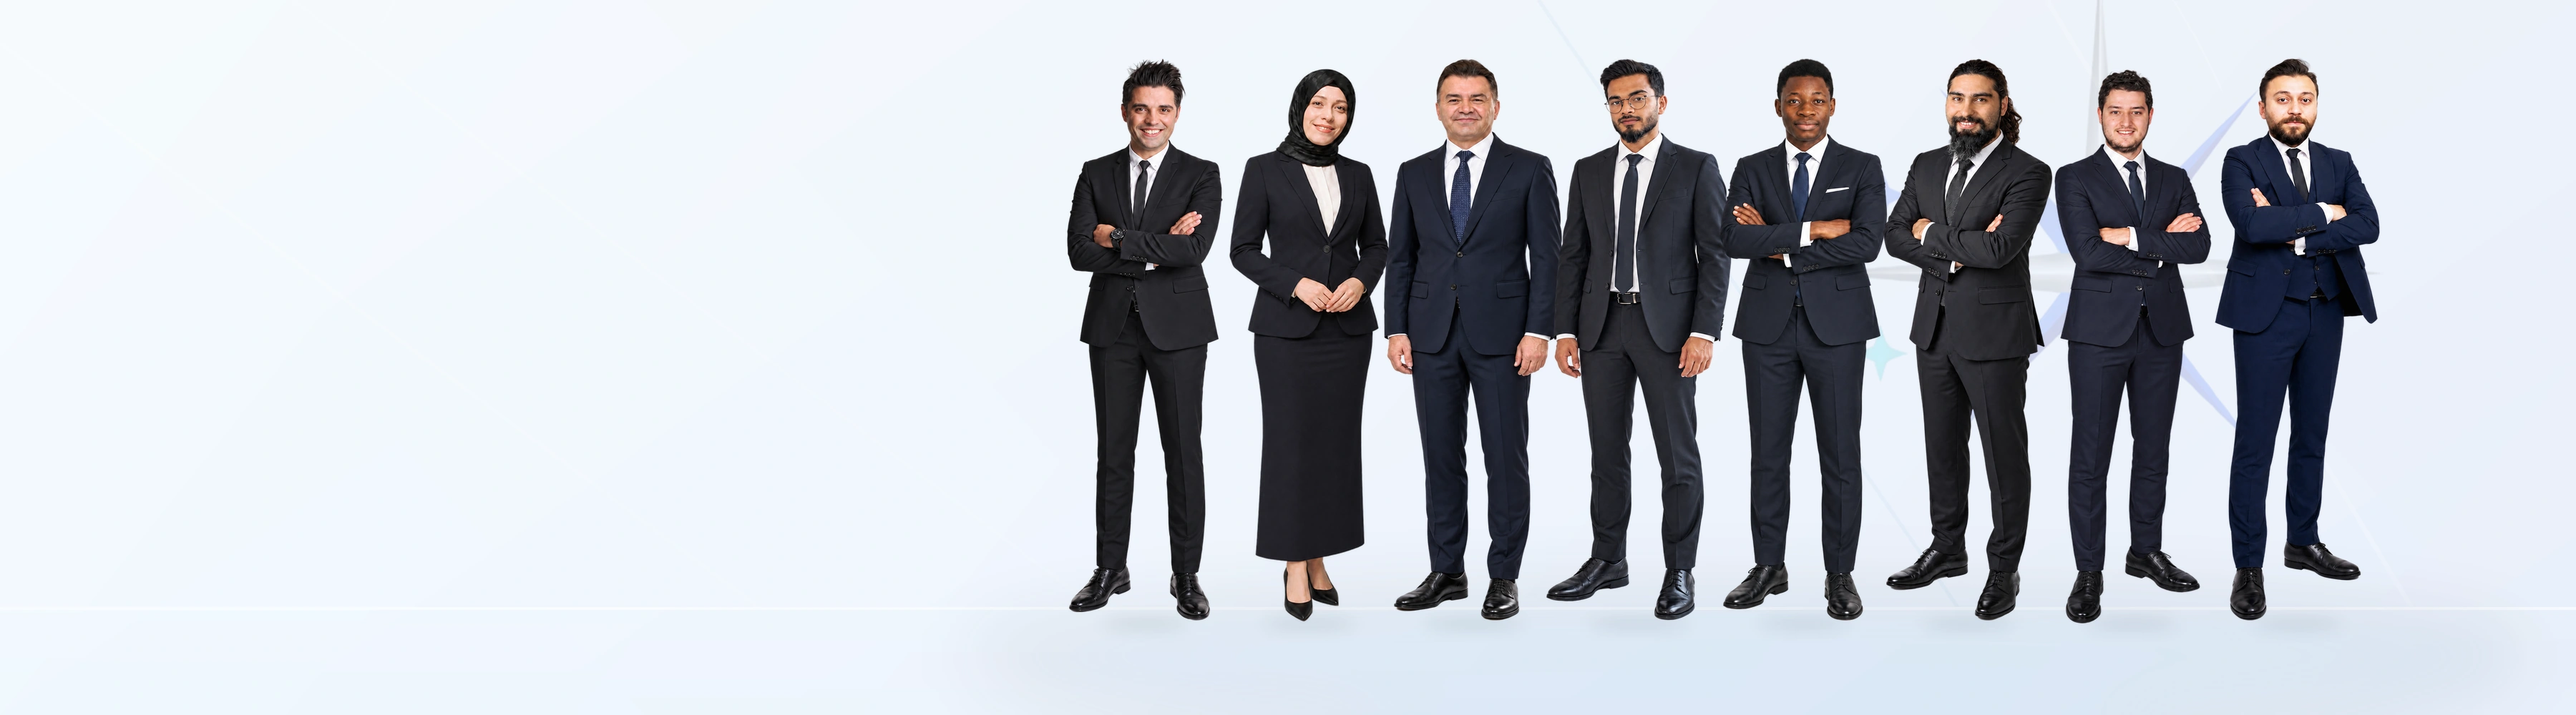
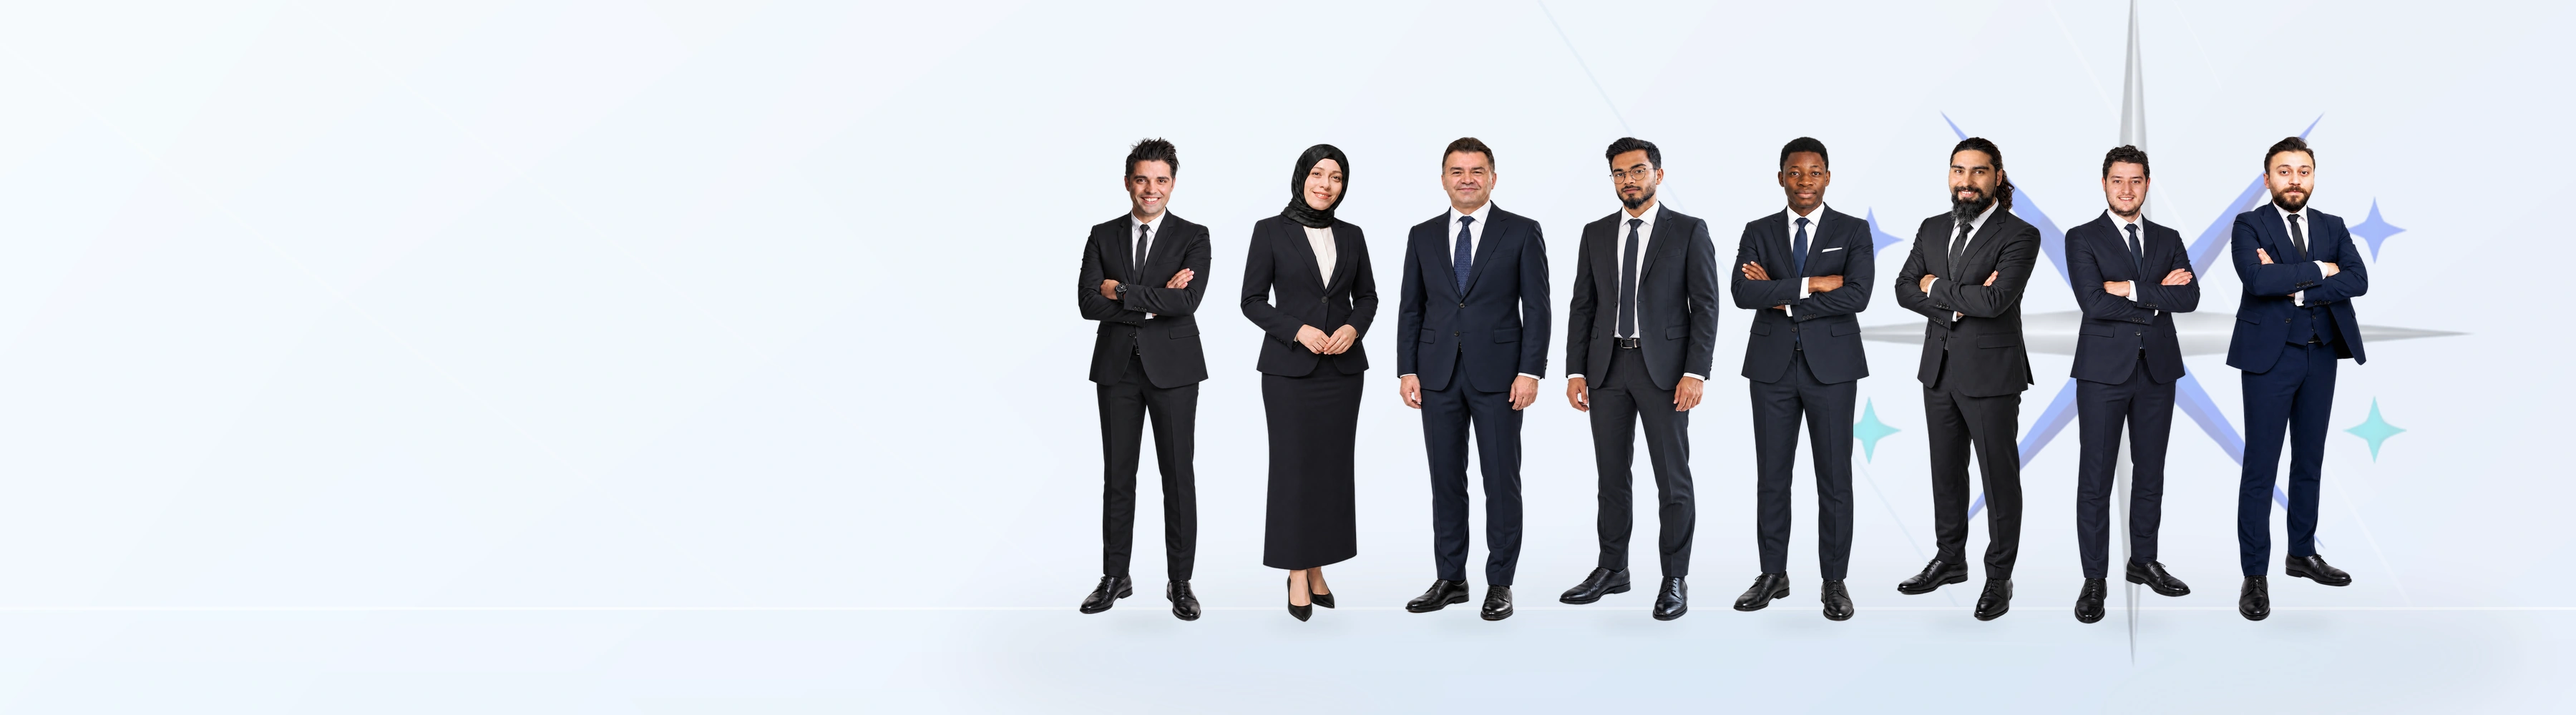
Refine board hero scale and height

Changed region(s): [[0.4044, 0.031, 0.9644, 0.868]]

diff --git a/yonetim-kurulu.html b/yonetim-kurulu.html
@@ -1,1 +1,1 @@
-<!doctype html><html lang="tr"><head><meta charset="UTF-8"><meta name="viewport" content="width=device-width,initial-scale=1"><title>Yönetim Kurulu | NOVA Akademi</title><link rel="preconnect" href="https://fonts.googleapis.com"><link rel="preconnect" href="https://fonts.gstatic.com" crossorigin><link href="https://fonts.googleapis.com/css2?family=Manrope:wght@400;500;600;700;800&display=swap" rel="stylesheet"><link rel="stylesheet" href="nova-header-v2.css?v=20261016-4"><link rel="stylesheet" href="nova-footer.css?v=20261017-1"><link rel="stylesheet" href="yonetim-kurulu.css?v=20261019-5"></head><body><div data-nova-header></div><main><section class="board-hero"><img class="board-hero__image" src="assets/yonetim-kurulu-ekip.webp?v=20261019-4" alt="NOVA Akademi yönetim kurulu üyelerinin ekip fotoğrafı" fetchpriority="high"><div class="board-wrap"><p>ANA SAYFA / KURUMSAL / YÖNETİM KURULU</p><h1>Yönetim<br><em>Kurulu</em></h1><span>NOVA’nın ortak vizyonunu hayata geçiren ekibimiz.</span></div></section><section class="board"><div class="board-wrap"><header><p>EKİBİMİZ</p><h2>Ortak hedeflerle ilerleyen yönetim kurulumuz</h2></header><div class="board-viewport"><div class="board-track" id="board-track"><article class="board-card active" data-member="mehmet"><button><span class="board-name">MEHMET ÖZCAN</span><span class="board-role">Yönetim Kurulu Başkanı</span><span class="portrait"><img src="https://raw.githubusercontent.com/milligenclikmgd/upsd-site/main/assets/yonetim-mehmet-ozcan.png" alt="Mehmet Özcan"></span></button></article><article class="board-card" data-member="hulya"><button><span class="board-name">HÜLYA METİN</span><span class="board-role">Bilimsel Sanatlar ve Kültürel Etkinlikler Başkanı</span><span class="portrait"><img src="assets/yonetim-hulya-metin.png" alt="Hülya Metin"></span></button></article><article class="board-card" data-member="yusuf"><button><span class="board-name">YUSUF ERBAŞ</span><span class="board-role">Genel Sekreter</span><span class="portrait"><img src="https://raw.githubusercontent.com/milligenclikmgd/upsd-site/main/assets/yonetim-yusuf-erbas.png" alt="Yusuf Erbaş"></span></button></article><article class="board-card" data-member="necat"><button><span class="board-name">NECAT KUZU</span><span class="board-role">Ar-Ge Başkanı</span><span class="portrait"><img src="https://raw.githubusercontent.com/milligenclikmgd/upsd-site/main/assets/yonetim-necat-kuzu.png" alt="Necat Kuzu"></span></button></article><article class="board-card" data-member="faouzane"><button><span class="board-name">FAOUZANE MAMA</span><span class="board-role">Uluslararası Projeler Başkanı</span><span class="portrait"><img src="https://raw.githubusercontent.com/milligenclikmgd/upsd-site/main/assets/yonetim-faouzane-mama.png" alt="Faouzane Mama"></span></button></article><article class="board-card" data-member="sidar"><button><span class="board-name">SIDAR ELÇİ</span><span class="board-role">Müzik ve Performans Sanatları Koordinatörü</span><span class="portrait"><img src="https://raw.githubusercontent.com/milligenclikmgd/upsd-site/main/assets/yonetim-sidar-elci.png" alt="Sidar Elçi"></span></button></article><article class="board-card" data-member="zafer"><button><span class="board-name">ZAFER CAN GÜCÜGÖZ</span><span class="board-role">Basın Yayın ve Kurumsal İletişim Koordinatörü</span><span class="portrait"><img src="assets/yonetim-zafer-can-gucugoz.png" alt="Zafer Can Gücügöz"></span></button></article><article class="board-card" data-member="volkan"><button><span class="board-name">VOLKAN FATİH YILMAZ</span><span class="board-role">Uluslararası Projeler Koordinatörü</span><span class="portrait"><img src="https://raw.githubusercontent.com/milligenclikmgd/upsd-site/main/assets/yonetim-volkan-fatih-yilmaz.png" alt="Volkan Fatih Yılmaz"></span></button></article></div></div><div class="board-nav"><button id="board-prev" aria-label="Önceki üye">‹</button><button id="board-next" aria-label="Sonraki üye">›</button></div></div></section></main><footer id="iletisim"><img class="footer-logo" src="assets/nova-logo2.png?v=20261011-6" alt="NOVA"><div class="footer-nav-grid" aria-label="Footer menüsü"><div><b>YETENEK SİSTEMİ</b><a href="#degerlendirme">Yetenek Değerlendirmesi</a><a href="#model">Gelişim Aşamaları</a><a href="#sistem">Kabul Süreci</a></div><div><b>EĞİTİM MODELİ</b><a href="#model">NOVA Eğitim Modeli</a><a href="#yolculuk">Öğrenci Yolculuğu</a><a href="#yolculuk">Öğrenci Pasaportu</a></div><div><b>SANAT</b><a href="#sanat">NOVA Sanat Akademisi</a><a href="#sanat">Halk Oyunları</a><a href="#sanat">Dans ve Sahne</a></div><div><b>SPOR</b><a href="#spor">NOVA Spor Akademisi</a><a href="#spor">Branşlar</a><a href="#spor">Sporcu Gelişimi</a></div><div><b>ÖĞRENCİ YOLCULUĞU</b><a href="#yolculuk">Gelişim Planı</a><a href="#yolculuk">Performans Takibi</a><a href="#model">Kariyer Hazırlığı</a></div><div><b>NOVA GLOBAL</b><a href="#global">Uluslararası Projeler</a><a href="#global">İş Birlikleri</a><a href="#seffaflik">Şeffaflık</a></div><div><b>KURUMSAL</b><a href="#kurumsal">NOVA Hakkında</a><a href="#kurumsal">Güven ve Sorumluluk</a><a href="#seffaflik">Şeffaflık Belgeleri</a></div><div><b>İLETİŞİM</b><a href="mailto:info@novaakademi.com">info@novaakademi.com</a><a href="#haberler">Haberler ve Duyurular</a><a href="#ilkeler">Temel İlkelerimiz</a><div class="footer-socials" aria-label="Sosyal medya"><a href="#" aria-label="Instagram"><svg viewBox="0 0 24 24" aria-hidden="true"><rect x="3" y="3" width="18" height="18" rx="5"/><circle cx="12" cy="12" r="4"/><circle cx="17.5" cy="6.5" r="1"/></svg></a><a href="#" aria-label="Facebook"><svg viewBox="0 0 24 24" aria-hidden="true"><path d="M14 21v-8h3l.5-3H14V8.2c0-.9.3-1.7 1.8-1.7H18V3.8c-.6-.1-1.5-.2-2.5-.2-2.6 0-4.4 1.6-4.4 4.5V10H8v3h3.1v8H14Z"/></svg></a><a href="#" aria-label="YouTube"><svg viewBox="0 0 24 24" aria-hidden="true"><path d="M21 12s0-3.2-.4-4.7a2.4 2.4 0 0 0-1.7-1.7C17.4 5.2 12 5.2 12 5.2s-5.4 0-6.9.4a2.4 2.4 0 0 0-1.7 1.7C3 8.8 3 12 3 12s0 3.2.4 4.7a2.4 2.4 0 0 0 1.7 1.7c1.5.4 6.9.4 6.9.4s5.4 0 6.9-.4a2.4 2.4 0 0 0 1.7-1.7c.4-1.5.4-4.7.4-4.7Z"/><path d="m10 15.5 5-3.5-5-3.5v7Z"/></svg></a><a href="#" aria-label="X"><svg viewBox="0 0 24 24" aria-hidden="true"><path d="M4 4l6.2 8.3L4.4 20h2.3l4.5-5.9 4.4 5.9H20l-6.6-8.8L18.8 4h-2.3l-4.1 5.4L8.3 4H4Zm3.7 1.7h1.7l6.8 9.1h-1.7L7.7 5.7Z"/></svg></a></div></div></div><div class="footer-bottom"><small>© 2026 NOVA Sanat ve Spor Kulübü. Tüm hakları saklıdır.</small><span class="kriter-media"><span>Dijital Çözüm Ortağı</span><img src="assets/kriter-medya-white.png?v=20261017-1" alt="Kriter Medya"></span></div></footer><div class="bio-backdrop" id="bio-backdrop"></div><aside class="bio-panel" id="bio-panel" aria-hidden="true"><button class="bio-close" type="button" aria-label="Kapat">×</button><div id="bio-content"></div></aside><script src="nova-header.js?v=20261017-1"></script><script src="yonetim-kurulu.js?v=20261019-2"></script></body></html>
+<!doctype html><html lang="tr"><head><meta charset="UTF-8"><meta name="viewport" content="width=device-width,initial-scale=1"><title>Yönetim Kurulu | NOVA Akademi</title><link rel="preconnect" href="https://fonts.googleapis.com"><link rel="preconnect" href="https://fonts.gstatic.com" crossorigin><link href="https://fonts.googleapis.com/css2?family=Manrope:wght@400;500;600;700;800&display=swap" rel="stylesheet"><link rel="stylesheet" href="nova-header-v2.css?v=20261016-4"><link rel="stylesheet" href="nova-footer.css?v=20261017-1"><link rel="stylesheet" href="yonetim-kurulu.css?v=20261019-6"></head><body><div data-nova-header></div><main><section class="board-hero"><img class="board-hero__image" src="assets/yonetim-kurulu-ekip.webp?v=20261019-5" alt="NOVA Akademi yönetim kurulu üyelerinin ekip fotoğrafı" fetchpriority="high"><div class="board-wrap"><p>ANA SAYFA / KURUMSAL / YÖNETİM KURULU</p><h1>Yönetim<br><em>Kurulu</em></h1><span>NOVA’nın ortak vizyonunu hayata geçiren ekibimiz.</span></div></section><section class="board"><div class="board-wrap"><header><p>EKİBİMİZ</p><h2>Ortak hedeflerle ilerleyen yönetim kurulumuz</h2></header><div class="board-viewport"><div class="board-track" id="board-track"><article class="board-card active" data-member="mehmet"><button><span class="board-name">MEHMET ÖZCAN</span><span class="board-role">Yönetim Kurulu Başkanı</span><span class="portrait"><img src="https://raw.githubusercontent.com/milligenclikmgd/upsd-site/main/assets/yonetim-mehmet-ozcan.png" alt="Mehmet Özcan"></span></button></article><article class="board-card" data-member="hulya"><button><span class="board-name">HÜLYA METİN</span><span class="board-role">Bilimsel Sanatlar ve Kültürel Etkinlikler Başkanı</span><span class="portrait"><img src="assets/yonetim-hulya-metin.png" alt="Hülya Metin"></span></button></article><article class="board-card" data-member="yusuf"><button><span class="board-name">YUSUF ERBAŞ</span><span class="board-role">Genel Sekreter</span><span class="portrait"><img src="https://raw.githubusercontent.com/milligenclikmgd/upsd-site/main/assets/yonetim-yusuf-erbas.png" alt="Yusuf Erbaş"></span></button></article><article class="board-card" data-member="necat"><button><span class="board-name">NECAT KUZU</span><span class="board-role">Ar-Ge Başkanı</span><span class="portrait"><img src="https://raw.githubusercontent.com/milligenclikmgd/upsd-site/main/assets/yonetim-necat-kuzu.png" alt="Necat Kuzu"></span></button></article><article class="board-card" data-member="faouzane"><button><span class="board-name">FAOUZANE MAMA</span><span class="board-role">Uluslararası Projeler Başkanı</span><span class="portrait"><img src="https://raw.githubusercontent.com/milligenclikmgd/upsd-site/main/assets/yonetim-faouzane-mama.png" alt="Faouzane Mama"></span></button></article><article class="board-card" data-member="sidar"><button><span class="board-name">SIDAR ELÇİ</span><span class="board-role">Müzik ve Performans Sanatları Koordinatörü</span><span class="portrait"><img src="https://raw.githubusercontent.com/milligenclikmgd/upsd-site/main/assets/yonetim-sidar-elci.png" alt="Sidar Elçi"></span></button></article><article class="board-card" data-member="zafer"><button><span class="board-name">ZAFER CAN GÜCÜGÖZ</span><span class="board-role">Basın Yayın ve Kurumsal İletişim Koordinatörü</span><span class="portrait"><img src="assets/yonetim-zafer-can-gucugoz.png" alt="Zafer Can Gücügöz"></span></button></article><article class="board-card" data-member="volkan"><button><span class="board-name">VOLKAN FATİH YILMAZ</span><span class="board-role">Uluslararası Projeler Koordinatörü</span><span class="portrait"><img src="https://raw.githubusercontent.com/milligenclikmgd/upsd-site/main/assets/yonetim-volkan-fatih-yilmaz.png" alt="Volkan Fatih Yılmaz"></span></button></article></div></div><div class="board-nav"><button id="board-prev" aria-label="Önceki üye">‹</button><button id="board-next" aria-label="Sonraki üye">›</button></div></div></section></main><footer id="iletisim"><img class="footer-logo" src="assets/nova-logo2.png?v=20261011-6" alt="NOVA"><div class="footer-nav-grid" aria-label="Footer menüsü"><div><b>YETENEK SİSTEMİ</b><a href="#degerlendirme">Yetenek Değerlendirmesi</a><a href="#model">Gelişim Aşamaları</a><a href="#sistem">Kabul Süreci</a></div><div><b>EĞİTİM MODELİ</b><a href="#model">NOVA Eğitim Modeli</a><a href="#yolculuk">Öğrenci Yolculuğu</a><a href="#yolculuk">Öğrenci Pasaportu</a></div><div><b>SANAT</b><a href="#sanat">NOVA Sanat Akademisi</a><a href="#sanat">Halk Oyunları</a><a href="#sanat">Dans ve Sahne</a></div><div><b>SPOR</b><a href="#spor">NOVA Spor Akademisi</a><a href="#spor">Branşlar</a><a href="#spor">Sporcu Gelişimi</a></div><div><b>ÖĞRENCİ YOLCULUĞU</b><a href="#yolculuk">Gelişim Planı</a><a href="#yolculuk">Performans Takibi</a><a href="#model">Kariyer Hazırlığı</a></div><div><b>NOVA GLOBAL</b><a href="#global">Uluslararası Projeler</a><a href="#global">İş Birlikleri</a><a href="#seffaflik">Şeffaflık</a></div><div><b>KURUMSAL</b><a href="#kurumsal">NOVA Hakkında</a><a href="#kurumsal">Güven ve Sorumluluk</a><a href="#seffaflik">Şeffaflık Belgeleri</a></div><div><b>İLETİŞİM</b><a href="mailto:info@novaakademi.com">info@novaakademi.com</a><a href="#haberler">Haberler ve Duyurular</a><a href="#ilkeler">Temel İlkelerimiz</a><div class="footer-socials" aria-label="Sosyal medya"><a href="#" aria-label="Instagram"><svg viewBox="0 0 24 24" aria-hidden="true"><rect x="3" y="3" width="18" height="18" rx="5"/><circle cx="12" cy="12" r="4"/><circle cx="17.5" cy="6.5" r="1"/></svg></a><a href="#" aria-label="Facebook"><svg viewBox="0 0 24 24" aria-hidden="true"><path d="M14 21v-8h3l.5-3H14V8.2c0-.9.3-1.7 1.8-1.7H18V3.8c-.6-.1-1.5-.2-2.5-.2-2.6 0-4.4 1.6-4.4 4.5V10H8v3h3.1v8H14Z"/></svg></a><a href="#" aria-label="YouTube"><svg viewBox="0 0 24 24" aria-hidden="true"><path d="M21 12s0-3.2-.4-4.7a2.4 2.4 0 0 0-1.7-1.7C17.4 5.2 12 5.2 12 5.2s-5.4 0-6.9.4a2.4 2.4 0 0 0-1.7 1.7C3 8.8 3 12 3 12s0 3.2.4 4.7a2.4 2.4 0 0 0 1.7 1.7c1.5.4 6.9.4 6.9.4s5.4 0 6.9-.4a2.4 2.4 0 0 0 1.7-1.7c.4-1.5.4-4.7.4-4.7Z"/><path d="m10 15.5 5-3.5-5-3.5v7Z"/></svg></a><a href="#" aria-label="X"><svg viewBox="0 0 24 24" aria-hidden="true"><path d="M4 4l6.2 8.3L4.4 20h2.3l4.5-5.9 4.4 5.9H20l-6.6-8.8L18.8 4h-2.3l-4.1 5.4L8.3 4H4Zm3.7 1.7h1.7l6.8 9.1h-1.7L7.7 5.7Z"/></svg></a></div></div></div><div class="footer-bottom"><small>© 2026 NOVA Sanat ve Spor Kulübü. Tüm hakları saklıdır.</small><span class="kriter-media"><span>Dijital Çözüm Ortağı</span><img src="assets/kriter-medya-white.png?v=20261017-1" alt="Kriter Medya"></span></div></footer><div class="bio-backdrop" id="bio-backdrop"></div><aside class="bio-panel" id="bio-panel" aria-hidden="true"><button class="bio-close" type="button" aria-label="Kapat">×</button><div id="bio-content"></div></aside><script src="nova-header.js?v=20261017-1"></script><script src="yonetim-kurulu.js?v=20261019-2"></script></body></html>

diff --git a/yonetim-kurulu.css b/yonetim-kurulu.css
@@ -113,3 +113,9 @@
  .bio-panel{transform:translate(-50%,-46%) scale(.96)}
  .bio-panel.show{transform:translate(-50%,-50%) scale(1)}
 }
+
+
+/* Daha kompakt hero; ekip küçültülüp NOVA yıldızı daha net görünür. */
+.board-hero{height:clamp(320px,27vw,390px);min-height:0}
+@media(max-width:900px){.board-hero{height:clamp(290px,32vw,340px)}}
+@media(max-width:600px){.board-hero{height:260px}}
